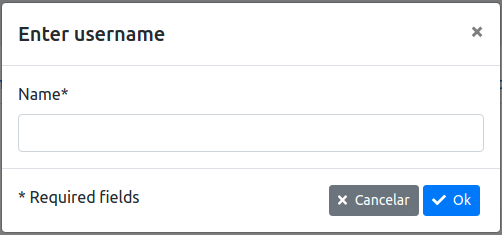
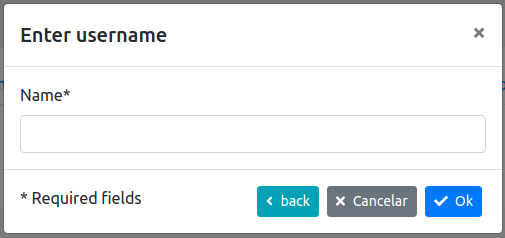
añadir un 3r botón al modal

Changed region(s): [[0.0, 0.0, 1.0, 1.0], [0.508, 0.7745, 0.9562, 0.9234], [0.9263, 0.1191, 0.9562, 0.1787]]

diff --git a/src/components/Commons/Modal/index.js b/src/components/Commons/Modal/index.js
@@ -52,6 +52,15 @@ export default function _Modal({children, className, show, options, disableConfi
                                              icon={options.iconCancel === 'Cancel' ? faTimes : (options.iconCancel === '' || options.iconCancel === undefined ? faTimes : options.iconCancel)}/> : null} {options && options.textCancel ? options.textCancel : 'Cancel'}
                     </button> : null}
 
+                {options && options.onOther ?
+                    <button type="button" disabled={loading}
+                            className={`float-right mr-1 btn btn-${options && options.colorOther ? options.colorOther : 'info'} ${options && options.btSize ? 'btn-' + options.btSize : ''}`}
+                            onClick={() => options.onOther('Other')}>
+                        {options && options.iconButton ?
+                            <FontAwesomeIcon className={"mr-1"}
+                                             icon={options.iconOther === 'ok' ? faCheck : (options.iconOther === 'add' ? faPlus : (options.iconOther === 'update' ? faSave : (options.iconOther === '' || options.iconOther === undefined ? faCheck : options.iconOther)))}/> : null} {options && options.textOther ? options.textOther : 'Ok'}
+                    </button> : null}
+
             </div> : null}
 
         </Modal>

diff --git a/src/components/Examples/Tabs/TabModal.js b/src/components/Examples/Tabs/TabModal.js
@@ -1,7 +1,7 @@
 import React, {useState} from 'react'
 import Modal from "../../Commons/Modal";
 import Modal2 from "../../Commons/Modal2";
-import {faCheck, faTimes} from "@fortawesome/free-solid-svg-icons";
+import {faCheck, faTimes, faAngleLeft} from "@fortawesome/free-solid-svg-icons";
 import {FontAwesomeIcon} from "@fortawesome/react-fontawesome";
 
 
@@ -67,6 +67,7 @@ return (
         onOk: onCallback,
         onCancel: onCallback,
         onBackdrop: onCallback,
+        onOther: onCallback,
         textOk: 'Ok',
         textCancel: 'Cancelar',
         size: '', // sm, lg (size modal)
@@ -76,6 +77,9 @@ return (
         iconCancel: faTimes,
         colorOk: 'primary', // ('primary', 'secondary', 'success', 'danger', 'warning', 'info', 'light', 'dark', 'link')
         colorCancel: 'secondary',
+        textOther:'back',
+        colorOther:'info',
+        iconOther: faAngleLeft,
         footer: {
             textHtml: '* Required fields'
         }

diff --git a/README.md b/README.md
@@ -9,7 +9,6 @@ Global component packages for React & Bootstrap4:
 - Modal
 - Typeahead 
 - Calendar
-- OnBeforeUnLoad
 
 Global utilities for React:
 - DownloadCSV
@@ -352,6 +351,7 @@ const options = {
     onOk: (action) => {/* 'OK' */},
     onCancel: (action) => {/* 'CANCEL' */},
     onBackdrop: (action) => {/* 'OUT' */},
+    onOther: (action) => {/* 'OTHER' */},
     textOk: 'Ok',
     textCancel: 'Cancelar',
     size: '', // sm, lg (size modal)
@@ -361,6 +361,9 @@ const options = {
     iconCancel: faTimes,
     colorOk: 'primary', // ('primary', 'secondary', 'success', 'danger', 'warning', 'info', 'light', 'dark', 'link')
     colorCancel: 'secondary',
+    textOther:'back',
+    colorOther:'info',
+    iconOther: faAngleLeft,
     footer: {
         textHtml: '* Required fields'
     }
@@ -475,28 +478,6 @@ const onKeyDown = (e) => {
 
 ![alt text](https://github.com/hotusa/react-examples/blob/master/src/images/calendar.png?raw=true)
 
-
-## OnBeforeUnLoad
-
-```
-const initialize = {personal: {nombre: '', apellidos: ''}, cargo: ''}
-const [dataOld, setDataOld] = useState(initialize)
-const [dataNew, setDataNew] = useState(initialize)
-
-<OnBeforeUnLoad dataOld={dataOld} dataNew={dataNew} skipFields={['cargo', 'personal.nombre']}>
-    {children}
-</OnBeforeUnLoad>
-```
-
-| Parameters    | Options           | Default | Description |
-| ------------- |:-------------:| :-------------:| :-------------:|  
-| dataOld | Object | Object | Object data old |
-| dataNew | Object | Object | Object data new |
-| skipFields | Array | Array | Array skip fields |
-| message | String | `Hay cambios sin guardar. ¿Seguro que quiere salir de esta página? | Custom info message before unload |
-
-
-![alt text](https://github.com/hotusa/react-examples/blob/master/src/images/onbeforeunload.png?raw=true)
 
 
 ## Utilidades
